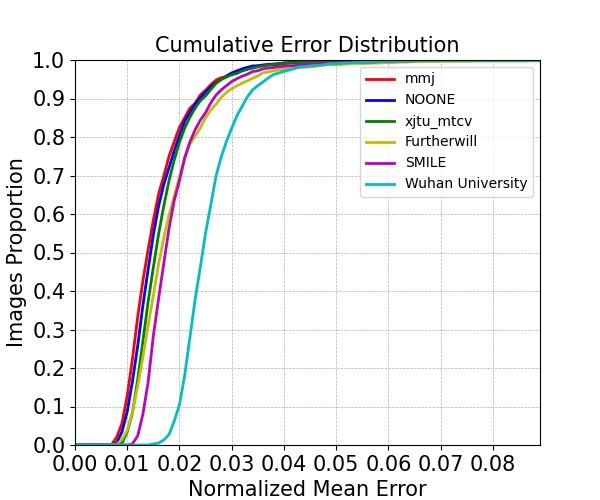
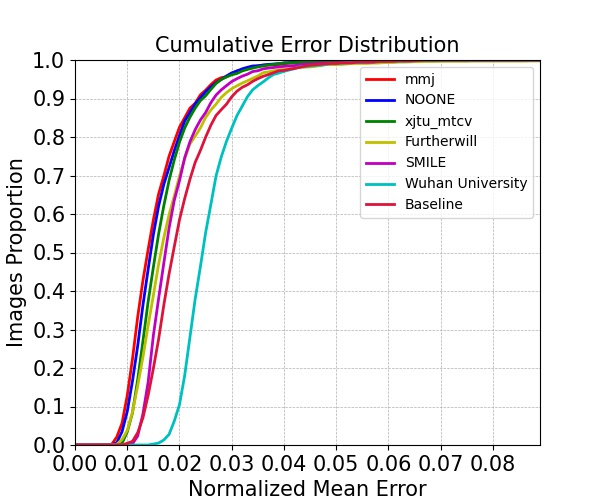
update leaderboard

diff --git a/leaderboard/index.html b/leaderboard/index.html
@@ -66,6 +66,79 @@
     
   <h1></h1>
   <h1 id="leaderboard">Leaderboard</h1>
+<h2 id="on-the-test-set">On the test set</h2>
+<table>
+<thead>
+<tr>
+<th align="center">Rank</th>
+<th align="center">Team Name</th>
+<th align="center">Affiliation</th>
+<th align="center">AUC (@0.08)</th>
+<th align="center">Failure rate (@0.08)</th>
+<th align="center">NME</th>
+</tr>
+</thead>
+<tbody>
+<tr>
+<td align="center"> 1</td>
+<td align="center">mmj</td>
+<td align="center">SogouAI</td>
+<td align="center">80.52</td>
+<td align="center">0.05</td>
+<td align="center">1.58</td>
+</tr>
+<tr>
+<td align="center"> 2</td>
+<td align="center">NOONE</td>
+<td align="center">OPPO Research Institute</td>
+<td align="center">79.92</td>
+<td align="center">0.05</td>
+<td align="center">1.63</td>
+</tr>
+<tr>
+<td align="center"> 3</td>
+<td align="center">xjtu_mtcv</td>
+<td align="center">Vision Intelligence Center, Meituan</td>
+<td align="center">78.88</td>
+<td align="center">0.05</td>
+<td align="center">1.71</td>
+</tr>
+<tr>
+<td align="center"> 4</td>
+<td align="center">Furtherwill</td>
+<td align="center">Southeast University</td>
+<td align="center">76.78</td>
+<td align="center">0.3</td>
+<td align="center">1.88</td>
+</tr>
+<tr>
+<td align="center"> 5</td>
+<td align="center">SMILE</td>
+<td align="center">Xi’an Jiaotong University</td>
+<td align="center">76.23</td>
+<td align="center">0.05</td>
+<td align="center">1.93</td>
+</tr>
+<tr>
+<td align="center"> 6</td>
+<td align="center">Wuhan University</td>
+<td align="center">Wuhan University</td>
+<td align="center">67.87</td>
+<td align="center">0.15</td>
+<td align="center">2.63</td>
+</tr>
+<tr>
+<td align="center"></td>
+<td align="center">Baseline</td>
+<td align="center"></td>
+<td align="center">74.23</td>
+<td align="center">0.05</td>
+<td align="center">2.80</td>
+</tr>
+</tbody>
+</table>
+<p>        <img src="https://FLLC-ICPR2020.github.io/pic/lbtest.jpg" alt=""></p>
+<h2 id="on-the-validation-set">On the validation set</h2>
 <table>
 <thead>
 <tr>

diff --git a/home/index.html b/home/index.html
@@ -67,6 +67,7 @@
   <h1></h1>
   <h1 id="latest-news">Latest News</h1>
 <ul>
+<li>2020/10/17: The leaderboard for the final evaluation has been updated. Congratulations to the winners. Besides, we strongly recommend each team submit the paper to <a href="https://havaiuc.github.io/"><!-- raw HTML omitted -->the 1st International Workshop on Human and Vehicle Analysis for Intelligent Urban Computing<!-- raw HTML omitted --></a>.</li>
 <li>2020/09/03: The deadline of the challenge has been extended!  Please pay attention to the new dates.</li>
 <li>2020/08/08: The leaderboard has been updated. Welcome to submit results for evaluation!</li>
 <li>2020/08/08: The 1st International Workshop on Human and Vehicle Analysis for Intelligent Urban Computing is open <a href="https://havaiuc.github.io/">https://havaiuc.github.io/</a>. Welcome to submit papers!</li>
